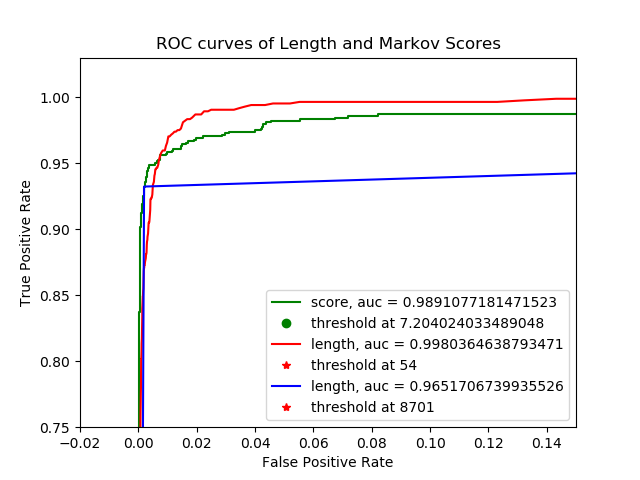
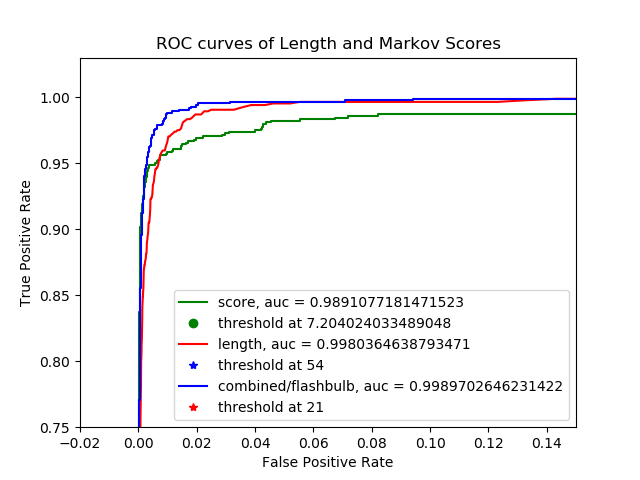
done!

diff --git a/src/train_model.py b/src/train_model.py
@@ -116,8 +116,8 @@ def roc_len_score(fig, df_results, combined_results):
     plt.plot(fpr, tpr, "g-", label="score, auc = {}".format(auc))
     plt.plot(fpr[idx_score], tpr[idx_score], "go", label="threshold at {}".format(thresholds[idx_score]))
     plt.plot(fpr_len, tpr_len, "r-", label="length, auc = {}".format(auc_len))
-    plt.plot(fpr_len[idx_len], tpr_len[idx_len], "r*", label="threshold at {}".format(thresholds_len[idx_len]))
-    plt.plot(fpr_combined, tpr_combined, "b-", label="length, auc = {}".format(auc_combined))
+    plt.plot(fpr_len[idx_len], tpr_len[idx_len], "b*", label="threshold at {}".format(thresholds_len[idx_len]))
+    plt.plot(fpr_combined, tpr_combined, "b-", label="combined/flashbulb, auc = {}".format(auc_combined))
     plt.plot(fpr_combined[idx_combined], tpr_combined[idx_combined], "r*", label="threshold at {}".format(thresholds_len[idx_combined]))
     plt.xlabel("False Positive Rate")
     plt.ylabel("True Positive Rate")
@@ -180,10 +180,8 @@ def combine_mm_len(df_results, m, y_intercept):
         x = row[1]["length"]
 
         temp = (-1/m)*x-y_intercept
-        if row[1]["score"] > temp:
-            y_pred.append(True)
-        else:
-            y_pred.append(False)
+        y_pred.append(row[1]["score"]-temp)
+
     return y_pred
 
 combined_results = combine_mm_len(df_results, m, y_intercept)
